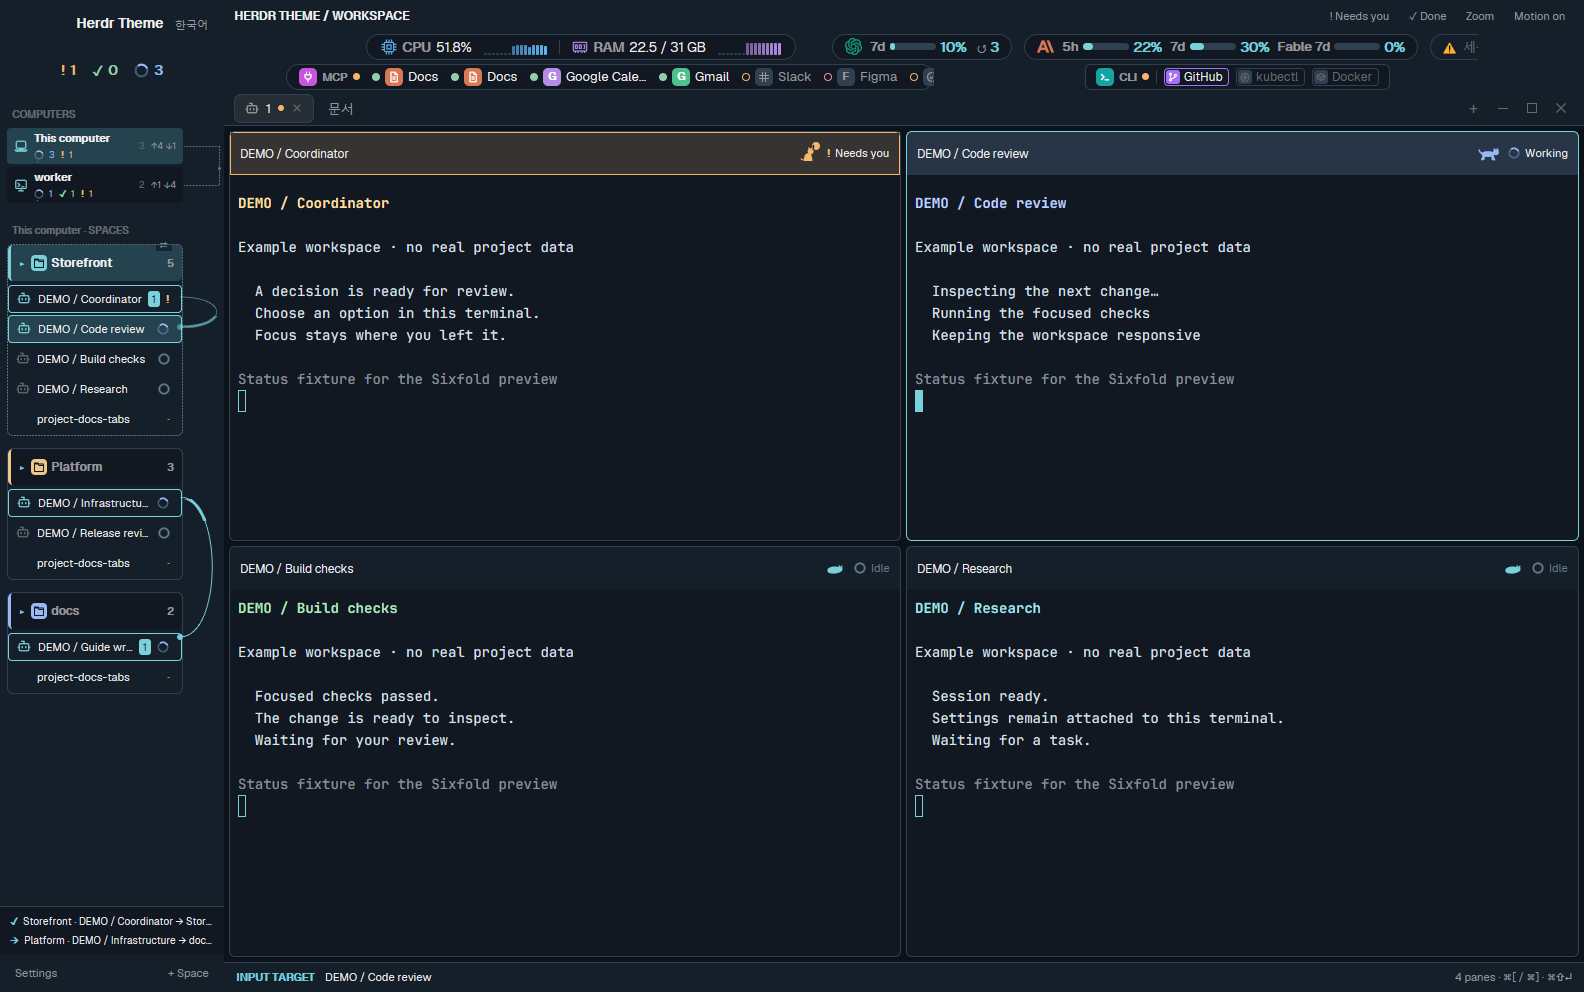
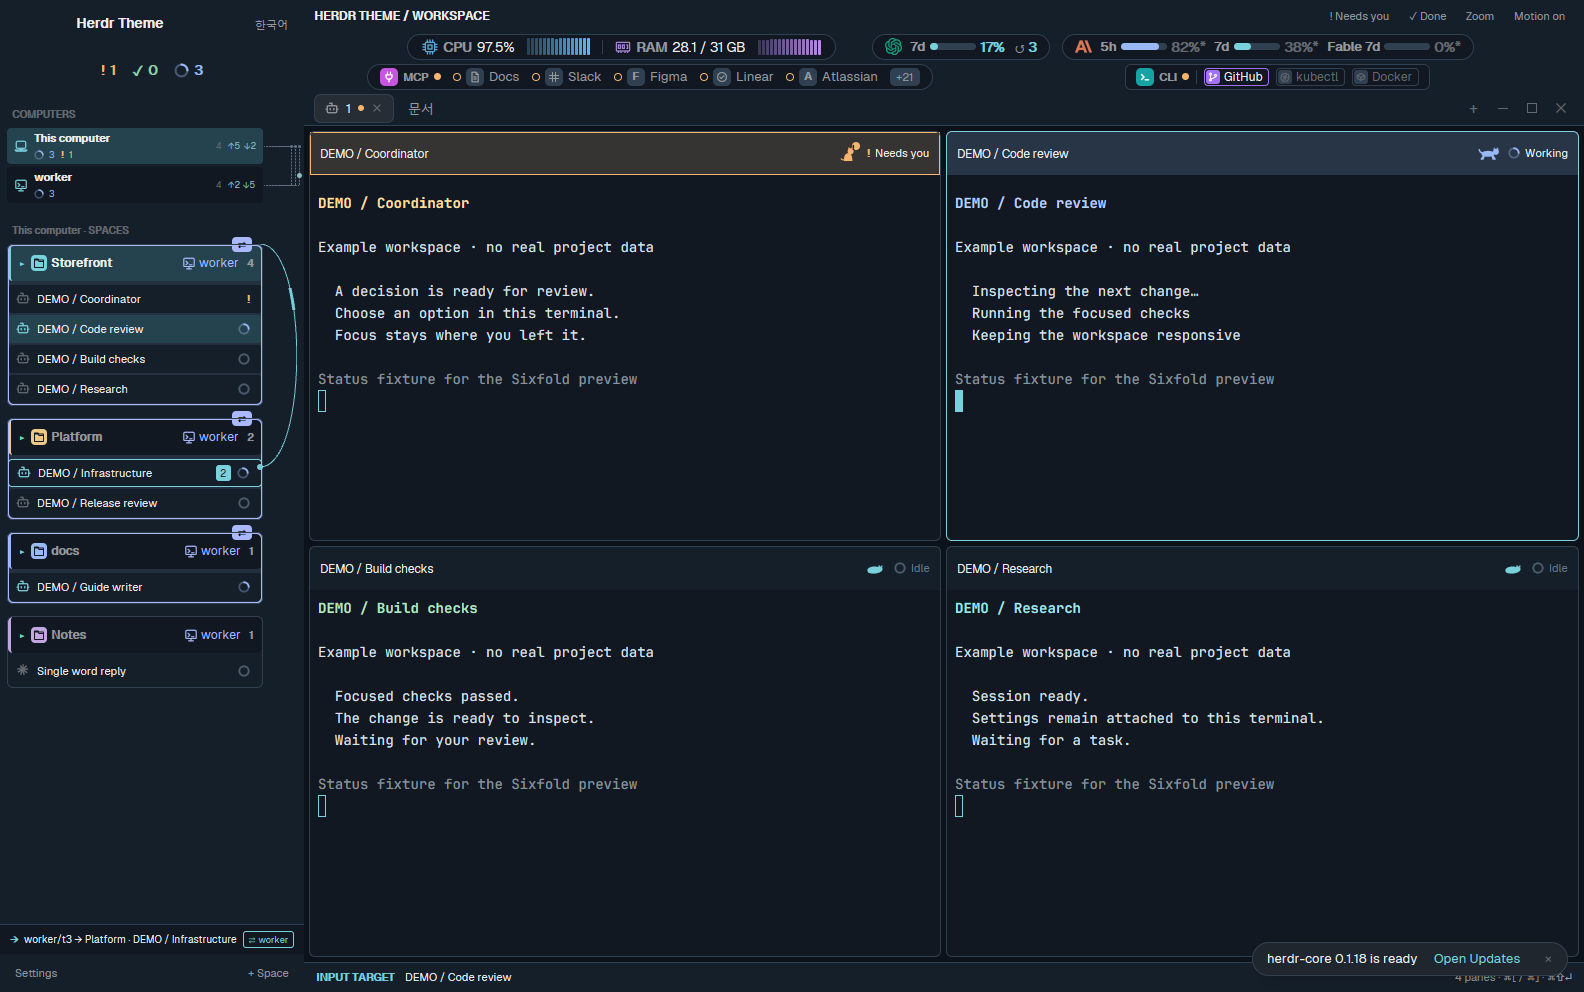
docs: replace collaboration screenshots with current native app captures

diff --git a/README.md b/README.md
@@ -128,6 +128,16 @@ Workspaces belong to the same project when their names match; a trailing `(compu
 
 The computer list separately draws up to four right-angle dashed pipes in a fixed right margin: for shared work, or for a pair of computers for **five minutes after their last send**. The ↑/↓ counts still cover the **last ten minutes**. A shared-work mark shows simultaneous activity on the same project; a send link shows a send event. Neither proves that a particular message was delivered or read.
 
+| One shared project · dark | One shared project · light |
+| --- | --- |
+| ![One shared Storefront project in the dark theme](docs/images/collab-single-dark.png) | ![One shared Storefront project in the light theme](docs/images/collab-single-light.png) |
+
+| Multiple project groups · dark | Multiple project groups · light |
+| --- | --- |
+| ![Several shared projects and an idle Notes partner in the dark theme](docs/images/collab-multi-dark.png) | ![Several shared projects and an idle Notes partner in the light theme](docs/images/collab-multi-light.png) |
+
+Native app captures on Windows 11, using `sixfold-night` / `sixfold-day` and demo workspaces. Only the `worker` computer and its sidebar data (including send events) are synthetic. In the multiple-group views, Notes has a partner but no shared work in progress, so its header keeps the partner name without an active border or badge.
+
 ### Sends between computers
 
 A send whose ends are on different computers runs its pipe from the visible row up to the top of the workspace list. The other computer's row lights up in the route colour with ⇡ (sent) or ⇣ (received), and the footer adds a ⇄ chip naming the far computer. An endpoint's computer comes from its terminal address (`machine/` prefix), so background remote terminals count too.
